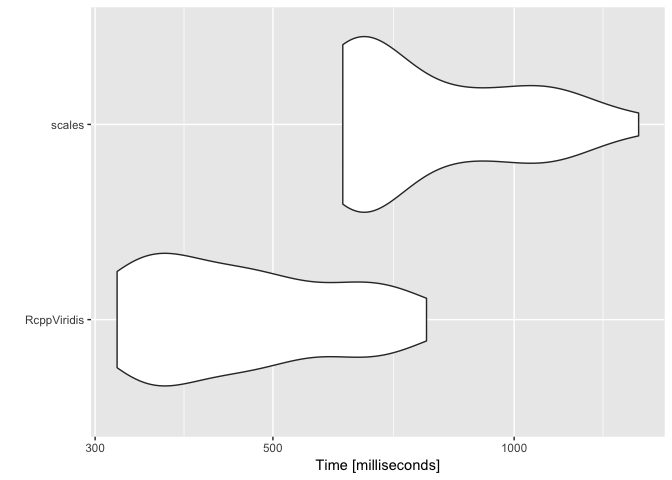
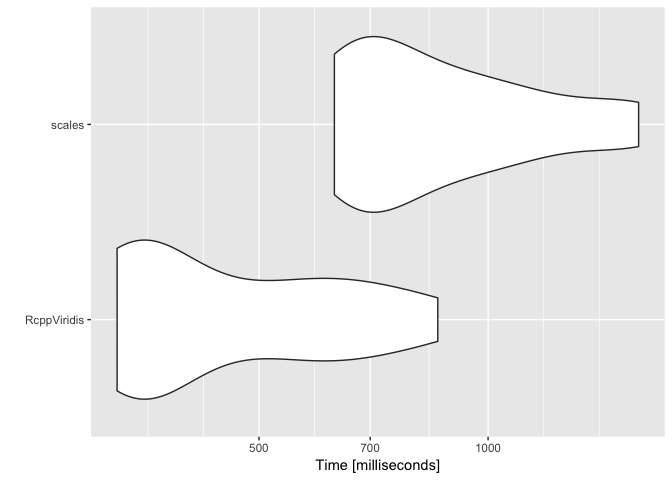
readme

diff --git a/README.md b/README.md
@@ -184,8 +184,8 @@ m <- microbenchmark(
 m
 # Unit: milliseconds
 #         expr      min       lq     mean   median       uq      max neval
-#  RcppViridis 329.2941 352.5408 544.9939 435.2040  620.343 1552.523    25
-#       scales 611.0542 660.5272 911.4572 753.6892 1130.279 1596.273    25
+#  RcppViridis 317.1185 327.4647 360.0752 343.0880 368.9058 493.8726    25
+#       scales 600.1947 642.4004 685.1840 658.6908 746.9387 812.3715    25
 
 autoplot(m)
 ```
@@ -211,9 +211,9 @@ m <- microbenchmark(
 )
 m
 # Unit: milliseconds
-#         expr      min       lq     mean   median       uq       max neval
-#  RcppViridis 319.5463 359.8183 474.6694 450.1222 557.6990  777.3813    25
-#       scales 611.1893 633.9163 815.8354 689.8862 973.5289 1429.9318    25
+#         expr      min       lq     mean   median        uq       max neval
+#  RcppViridis 325.4078 348.7157 483.6223 387.7399  602.0011  858.7916    25
+#       scales 628.0510 671.6875 904.2333 795.3240 1009.6003 1577.0112    25
 
 autoplot(m)
 ```
